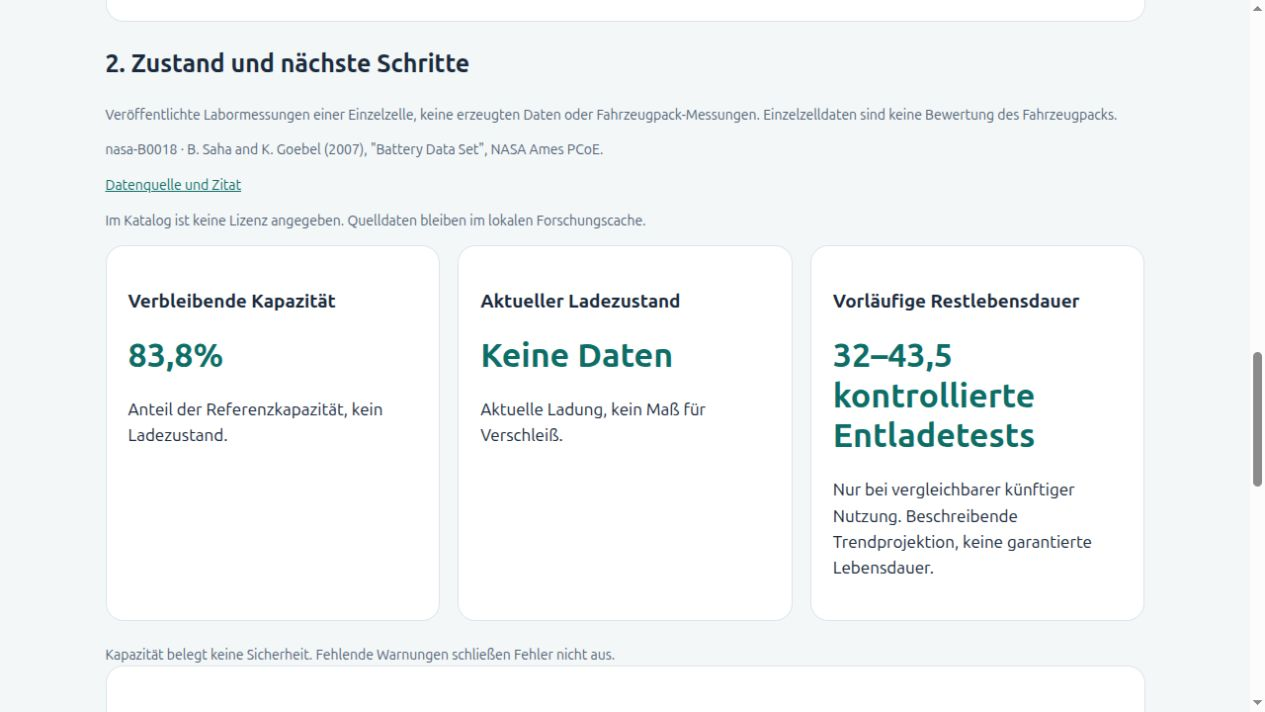
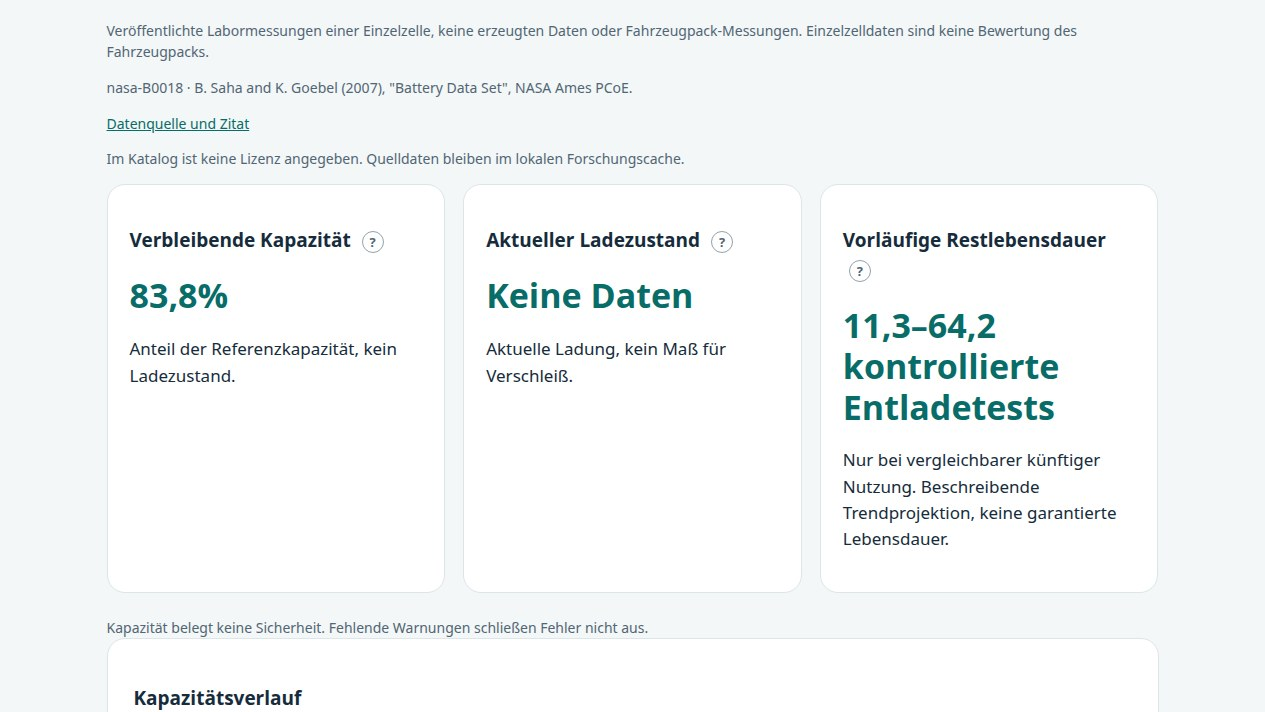
Refresh the interface screenshots in nine languages: uncertainty band and tooltips

diff --git a/docs/screenshots/CAPTURE.md b/docs/screenshots/CAPTURE.md
@@ -1,10 +1,10 @@
 # Interface captures
 
-Captured on 28 October 2026 from the running local application using its normal browser viewport. These are direct application screenshots.
+Captured on 29 October 2026 (battery captures; the others on 28 October) from the running local application using its normal browser viewport. These are direct application screenshots.
 
-- `battery-nasa-{en,ru,zh,hi,es,fr,de,ja,it}.jpg`: NASA B0018, first 40 measured discharge tests, 70% end-of-life threshold. Capacity SOH is 83.8%; conditional remaining trend estimate is 32–43.5 additional controlled discharge tests. SOC is unknown. These are laboratory cell measurements, not a vehicle pack forecast.
+- `battery-nasa-{en,ru,zh,hi,es,fr,de,ja,it}.jpg`: NASA B0018, first 40 measured discharge tests, 70% end-of-life threshold. Capacity SOH is 83.8%; calibrated conditional remaining trend estimate is 11.3–64.2 additional controlled discharge tests. SOC is unknown. These are laboratory cell measurements, not a vehicle pack forecast.
 - `public-data-selection-en.jpg`: public NASA data selector and observed-history controls.
-- `battery-trend-en.jpg`: measured capacity history for tests 1–40, with the 70% threshold. The recent trend uses tests 11–40.
+- `battery-trend-en.jpg`: measured capacity history for tests 1–40, the 70% threshold, the projected capacity line and the shaded uncertainty range. The recent trend uses tests 11–40.
 - `equipment-live-en.jpg`: live six-asset server simulation with ML/DL diagnostics, alarms and an explicit simulated-source label. It does not show connected physical equipment.
 
 The three shared overview/trend/equipment captures use English. Each README includes its own language-specific battery report. Public data source and reuse caveats: [public battery data](../PUBLIC_BATTERY_DATA.md).

diff --git a/README.hi.md b/README.hi.md
@@ -50,7 +50,7 @@ bash scripts/run_dashboard.sh
 
 ![B0018: SOH, अज्ञात SOC और सशर्त शेष जीवन](docs/screenshots/battery-nasa-hi.jpg)
 
-पहले 40 डिस्चार्ज: **SOH 83.8%**, SOC अज्ञात और 70% क्षमता सीमा तक सशर्त **32–43.5 अतिरिक्त नियंत्रित डिस्चार्ज परीक्षण**। स्रोत और सीमाएँ कार्ड के ऊपर हैं। यह प्रयोगशाला सेल है; परीक्षण क्रम को वाहन संचालन के महीनों में नहीं बदला जाता।
+पहले 40 डिस्चार्ज: **SOH 83.8%**, SOC अज्ञात और 70% क्षमता सीमा तक सशर्त **11.3–64.2 अतिरिक्त नियंत्रित डिस्चार्ज परीक्षण**। स्रोत और सीमाएँ कार्ड के ऊपर हैं। यह प्रयोगशाला सेल है; परीक्षण क्रम को वाहन संचालन के महीनों में नहीं बदला जाता।
 
 ### 3. क्षमता इतिहास
 

diff --git a/README.md b/README.md
@@ -48,7 +48,7 @@ bash scripts/run_dashboard.sh
 
 ![Отчёт B0018: SOH, неизвестный SOC и условный ресурс](docs/screenshots/battery-nasa-ru.jpg)
 
-Первые 40 разрядов: **SOH 83,8 %**, SOC неизвестен, условная проекция **32–43,5 дополнительных контрольных разряда** до порога 70 %. Источник и ограничения видны над карточками. Это отдельная лабораторная ячейка; её разряды не пересчитываются в месяцы эксплуатации автомобиля.
+Первые 40 разрядов: **SOH 83,8 %**, SOC неизвестен, условная проекция **11,3–64,2 дополнительных контрольных разряда** до порога 70 %. Источник и ограничения видны над карточками. Это отдельная лабораторная ячейка; её разряды не пересчитываются в месяцы эксплуатации автомобиля.
 
 ### 3. История ёмкости
 

diff --git a/README.en.md b/README.en.md
@@ -71,7 +71,7 @@ Select one of four cells and the observed prefix length. Only that prefix enters
 
 ![B0018 report with SOH, unknown SOC and conditional life](docs/screenshots/battery-nasa-en.jpg)
 
-First 40 discharge tests: **83.8% SOH**, unknown SOC and a conditional **32–43.5 additional discharge-test** projection to the configured 70% capacity threshold. Source and limitations appear above the cards. This is a laboratory cell; its test index is not converted to EV operating months.
+First 40 discharge tests: **83.8% SOH**, unknown SOC and a conditional **11.3–64.2 additional discharge-test** projection to the configured 70% capacity threshold. Source and limitations appear above the cards. This is a laboratory cell; its test index is not converted to EV operating months.
 
 ### 3. Capacity history
 

diff --git a/README.ja.md b/README.ja.md
@@ -46,7 +46,7 @@ bash scripts/run_dashboard.sh
 
 ![B0018：SOH、不明な SOC、条件付きの残存寿命](docs/screenshots/battery-nasa-ja.jpg)
 
-最初の40回：**SOH 83.8%**、SOC は不明、70%容量しきい値まで**追加32–43.5回の管理された放電試験**という条件付き推定です。カードの上に出典と制約があります。実験室の単一セルであり、試験番号を自動車の使用月数に換算しません。
+最初の40回：**SOH 83.8%**、SOC は不明、70%容量しきい値まで**追加11.3–64.2回の管理された放電試験**という条件付き推定です。カードの上に出典と制約があります。実験室の単一セルであり、試験番号を自動車の使用月数に換算しません。
 
 ### 3. 容量の推移
 

diff --git a/README.es.md b/README.es.md
@@ -48,7 +48,7 @@ Elija una celda y la longitud del historial observado. Solo ese inicio se usa pa
 
 ![B0018: SOH, SOC desconocido y vida condicional](docs/screenshots/battery-nasa-es.jpg)
 
-Primeras 40 descargas: **SOH 83,8 %**, SOC desconocido y proyección condicional de **32–43,5 pruebas adicionales** hasta el umbral del 70 %. La fuente y las limitaciones aparecen sobre las tarjetas. Es una celda de laboratorio, sin conversión a meses de uso del vehículo.
+Primeras 40 descargas: **SOH 83,8 %**, SOC desconocido y proyección condicional de **11,3–64,2 pruebas adicionales** hasta el umbral del 70 %. La fuente y las limitaciones aparecen sobre las tarjetas. Es una celda de laboratorio, sin conversión a meses de uso del vehículo.
 
 ### 3. Historial de capacidad
 

diff --git a/README.it.md b/README.it.md
@@ -48,7 +48,7 @@ Scegliere una cella e l’inizio dello storico osservato. Le misure successive n
 
 ![B0018: SOH, SOC sconosciuto e vita condizionata](docs/screenshots/battery-nasa-it.jpg)
 
-Prime 40 prove: **SOH 83,8 %**, SOC sconosciuto e proiezione condizionata di **32–43,5 prove aggiuntive** prima della soglia del 70 %. Fonte e limiti sono visibili sopra le schede. È una cella di laboratorio; non si converte il suo indice in mesi di utilizzo del veicolo.
+Prime 40 prove: **SOH 83,8 %**, SOC sconosciuto e proiezione condizionata di **11,3–64,2 prove aggiuntive** prima della soglia del 70 %. Fonte e limiti sono visibili sopra le schede. È una cella di laboratorio; non si converte il suo indice in mesi di utilizzo del veicolo.
 
 ### 3. Storico della capacità
 

diff --git a/README.de.md b/README.de.md
@@ -48,7 +48,7 @@ Zelle und beobachtete Testanzahl wählen. Nur dieser Anfang der Historie fließt
 
 ![B0018: SOH, unbekannter SOC und bedingte Restlebensdauer](docs/screenshots/battery-nasa-de.jpg)
 
-Erste 40 Entladetests: **83,8 % SOH**, unbekannter SOC und bedingt **32–43,5 weitere Entladetests** bis zur 70-%-Kapazitätsgrenze. Quelle und Grenzen stehen über den Karten. Eine Laborzelle wird nicht als Fahrzeugpack oder in Fahrzeug-Betriebsmonaten ausgewertet.
+Erste 40 Entladetests: **83,8 % SOH**, unbekannter SOC und bedingt **11,3–64,2 weitere Entladetests** bis zur 70-%-Kapazitätsgrenze. Quelle und Grenzen stehen über den Karten. Eine Laborzelle wird nicht als Fahrzeugpack oder in Fahrzeug-Betriebsmonaten ausgewertet.
 
 ### 3. Kapazitätsverlauf
 

diff --git a/README.zh.md b/README.zh.md
@@ -48,7 +48,7 @@ bash scripts/run_dashboard.sh
 
 ![B0018 的 SOH、未知 SOC 与条件性寿命](docs/screenshots/battery-nasa-zh.jpg)
 
-前 40 次放电：**SOH 83.8%**，SOC 未知，到 70% 容量阈值的条件性推算为**另外 32–43.5 次受控放电测试**。卡片上方显示来源和限制。这是实验室单体，测试序号不会换算为汽车使用月数。
+前 40 次放电：**SOH 83.8%**，SOC 未知，到 70% 容量阈值的条件性推算为**另外 11.3–64.2 次受控放电测试**。卡片上方显示来源和限制。这是实验室单体，测试序号不会换算为汽车使用月数。
 
 ### 3. 容量历史
 
